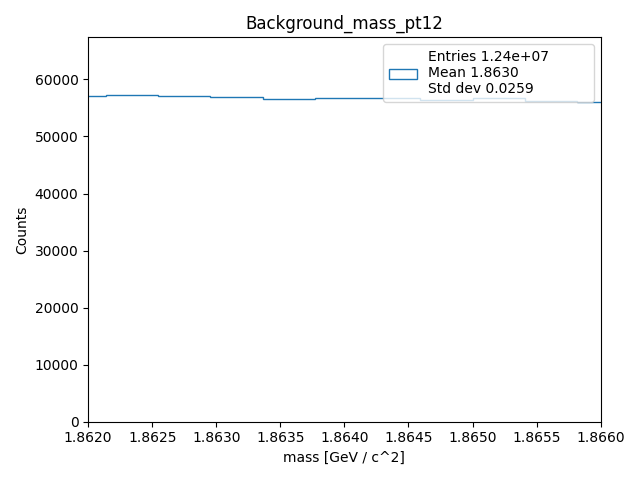
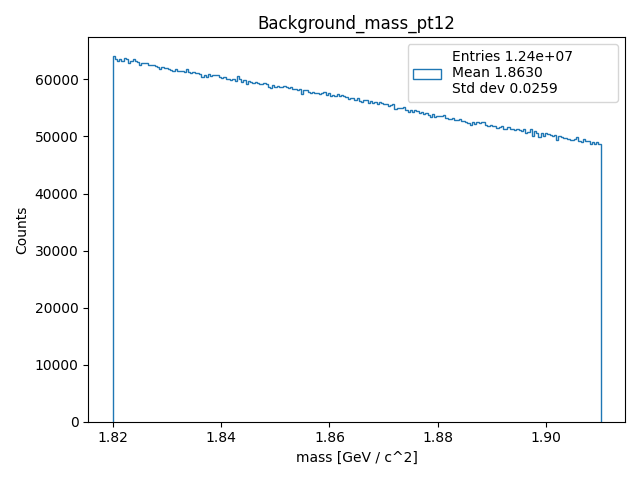
added hist2d

diff --git a/task2/make_hist2d_npy.py b/task2/make_hist2d_npy.py
@@ -1,0 +1,69 @@
+from custom_fnk import make_hist_2d, label_position
+import numpy as np
+import sys
+import getopt
+
+
+#inputfile = 'D0_Signal_MonteCarlo_1_2.npy'
+
+def main(argv):
+    try:
+        opts, args = getopt.getopt(argv, 'i:')
+    except getopt.GetoptError:
+        print('Error...')
+        sys.exit(2)
+
+    if len(opts) != 1:
+        print(f'I need 1 argument in format ./[program_name] -i <input_file.npy>')
+        sys.exit(1)
+
+    for opt, arg in opts:
+        if opt in '-i':
+            inputfile = arg
+
+
+    array = np.load(inputfile, allow_pickle=True)
+
+    labels = list(array[:1].astype(str)[0])
+    array = array[1:].astype('float64')
+
+    source = input("Is it Signal or Background? [S/B]\n").lower()
+    if source != 's' and source != 'b':
+        print("arguments are S or B...")
+        sys.exit(3)
+
+    hist2d_signal(array, labels, source)
+
+def hist2d_signal(array, labels, source='s'):
+
+    if source == 's':
+        source = 'Signal'
+    if source == 'b':
+        source = 'Background'
+
+
+    idx_m = label_position(labels, 'm')
+    idx_pt = label_position(labels, 'pt')
+    idx_decayLength = label_position(labels, 'decayLength')
+    idx_dca12 = label_position(labels, 'dca12')
+    idx_dcaV0ToPv = label_position(labels, 'dcaV0ToPv')
+    idx_ptPion = label_position(labels, 'ptPion')
+    idx_dcaPion = label_position(labels, 'dcaPion')
+    idx_ptKaon = label_position(labels, 'ptKaon')
+    idx_dcaKaon = label_position(labels, 'dcaKaon')
+
+    make_hist_2d(array[:, idx_m], array[:, idx_pt], f'{source}_m_vs_pt', 'm', 'pt')
+    make_hist_2d(array[:, idx_pt], array[:, idx_decayLength], f'{source}_pt_vs_decayLength', 'pt', 'decayLength')
+    make_hist_2d(array[:, idx_pt], array[:, idx_dcaV0ToPv], f'{source}_pt_vs_dcaV0ToPv', 'pt', 'dcaV0ToPv')
+    make_hist_2d(array[:, idx_dcaV0ToPv], array[:, idx_ptPion], f'{source}_dcaV0ToPv_vs_ptPion', 'dcaV0ToPv', 'ptPion')
+    make_hist_2d(array[:, idx_dcaV0ToPv], array[:, idx_ptKaon], f'{source}_dcaV0ToPv_vs_ptKaon', 'dcaV0ToPv', 'ptKaon')
+    make_hist_2d(array[:, idx_pt], array[:, idx_dca12], f'{source}_pt_vs_dca12', 'pt', 'dca12')
+    make_hist_2d(array[:, idx_pt], array[:, idx_ptPion], f'{source}_pt_vs_ptPion', 'pt', 'ptPion')
+    make_hist_2d(array[:, idx_pt], array[:, idx_ptKaon], f'{source}_pt_vs_ptKaon', 'pt', 'ptKaon')
+    make_hist_2d(array[:, idx_ptPion], array[:, idx_ptKaon], f'{source}_ptPion_vs_ptKaon', 'ptPion', 'ptKaon')
+
+
+
+
+if __name__ == '__main__':
+    main(sys.argv[1:])

diff --git a/task2/make_hist_npy.py b/task2/make_hist_npy.py
@@ -12,7 +12,7 @@ def make_hist_signal(array, labels):
     output_dir = 'img_with_weights/'
     make_hist(array[:, label_position(labels, 'm')], 220, 'Signal_mass_pt12', 'mass [GeV / c^2]', 1.862, 1.866, weights=weightArray, output_folder=output_dir)
     make_hist(array[:, label_position(labels, 'pt')], 150, 'Signal_pt_12', 'pt [GeV]', weights=weightArray, output_folder=output_dir)
-    make_hist(array[:, label_position(labels, 'decayLength')], 150, 'Signal_decayLength_pt_12', 'pt [GeV]', weights=weightArray, output_folder=output_dir)
+    make_hist(array[:, label_position(labels, 'decayLength')], 150, 'Signal_decayLength_pt_12', weights=weightArray, output_folder=output_dir)
     make_hist(array[:, label_position(labels, 'dca12')], 150, 'Signal_dca12_pt_12', weights=weightArray, output_folder=output_dir)
     
     make_hist(array[:, label_position(labels, 'ptKaon')], 150, 'Signal_ptKaon_pt_12', weights=weightArray, output_folder=output_dir)
@@ -24,9 +24,9 @@ def make_hist_signal(array, labels):
 def make_hist_background(array, labels):
     '''It requires output_folder directory to work!!!'''
     output_dir = 'img/'
-    make_hist(array[:, label_position(labels, 'm')], 220, 'Background_mass_pt12', 'mass [GeV / c^2]', 1.862, 1.866, output_folder=output_dir)
+    make_hist(array[:, label_position(labels, 'm')], 220, 'Background_mass_pt12', 'mass [GeV / c^2]', output_folder=output_dir)
     make_hist(array[:, label_position(labels, 'pt')], 150, 'Background_pt_12', 'pt [GeV]', output_folder=output_dir)
-    make_hist(array[:, label_position(labels, 'decayLength')], 150, 'Background_decayLength_pt_12', 'pt [GeV]', output_folder=output_dir)
+    make_hist(array[:, label_position(labels, 'decayLength')], 150, 'Background_decayLength_pt_12', output_folder=output_dir)
     make_hist(array[:, label_position(labels, 'dca12')], 150, 'Background_dca12_pt_12', output_folder=output_dir)
     
     make_hist(array[:, label_position(labels, 'ptKaon')], 150, 'Background_ptKaon_pt_12', output_folder=output_dir)

diff --git a/task2/pca_analysis.py b/task2/pca_analysis.py
@@ -1,0 +1,50 @@
+from sklearn.preprocessing import StandardScaler as SC
+from sklearn.decomposition import PCA
+import sys, getopt
+import numpy as np
+
+
+def main(argv):
+    try:
+        opts, args = getopt.getopt(argv, 'i:')
+    except getopt.GetoptError:
+        print('Error...')
+        sys.exit(2)
+
+    if len(opts) != 1:
+        print(f'I need 1 argument in format ./[program_name] -i <input_file.npy>')
+        sys.exit(1)
+
+    for opt, arg in opts:
+        if opt in '-i':
+            inputfile = arg
+
+
+    array = np.load(inputfile, allow_pickle=True)
+
+    labels = list(array[:1].astype(str)[0])
+    array = array[1:].astype('float64')
+
+
+    # array jest teraz ustandaryzowany (mean=0, std=1)
+    array = SC().fit_transform(array)
+
+    # chcemy zachowac oryginalna wymiarowosc zbioru (liczbe kolumn)
+    pca = PCA(n_components=array.shape[1])
+
+    pca.fit(array)
+
+    print(pca.explained_variance_ratio_)
+    #print(pca.explained_variance_)
+    #print(pca.singular_values_)
+    print('\n')
+
+    for i in range(pca.components_.shape[0]):
+        print(abs(pca.components_[i]))
+
+    print(labels[4])
+
+
+
+if __name__ == '__main__':
+    main(sys.argv[1:])

diff --git a/task2/custom_fnk.py b/task2/custom_fnk.py
@@ -51,3 +51,15 @@ def make_hist(x, bins, title, x_label='', x_min=None, x_max=None, weights=None, 
     plt.tight_layout()
     plt.savefig(img_path)
     #plt.show()
+
+def make_hist_2d(x, y, title, x_label='', y_label=''):
+    # clear plt buffer
+    plt.clf()
+
+    plt.hist2d(x,y, bins=150)
+    plt.title(title)
+    plt.xlabel(x_label)
+    plt.ylabel(y_label)
+    plt.colorbar().set_label('Counts')
+    plt.savefig(f'img/{title}')
+    #plt.show()
